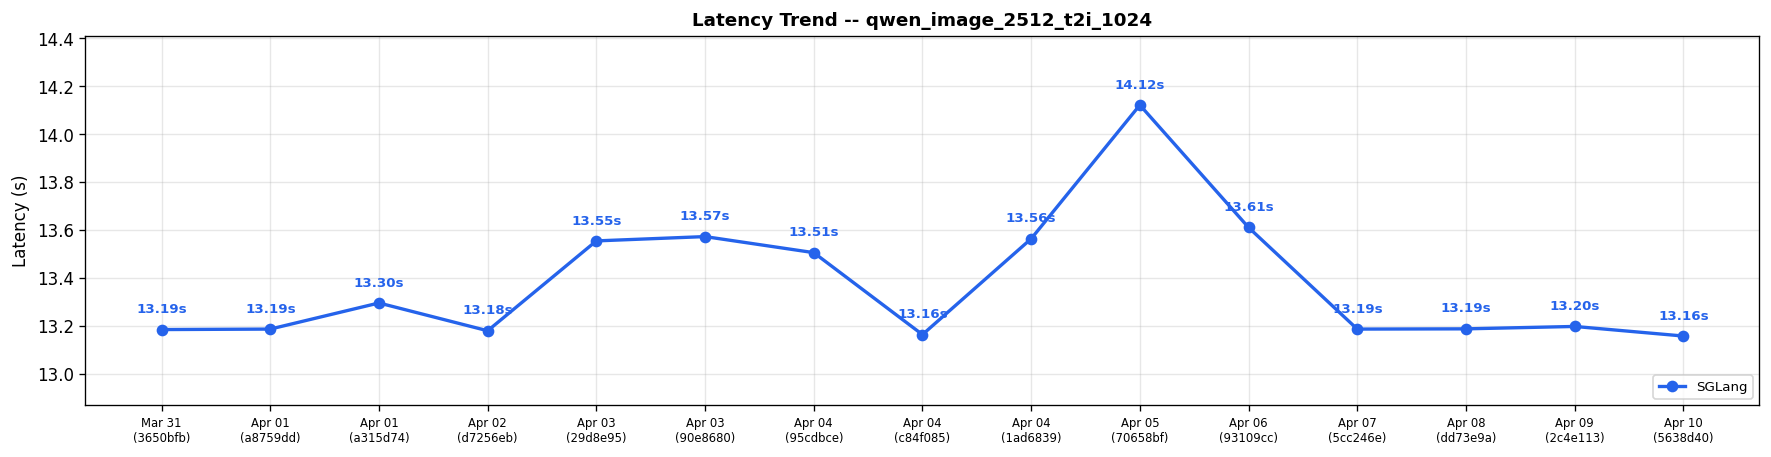
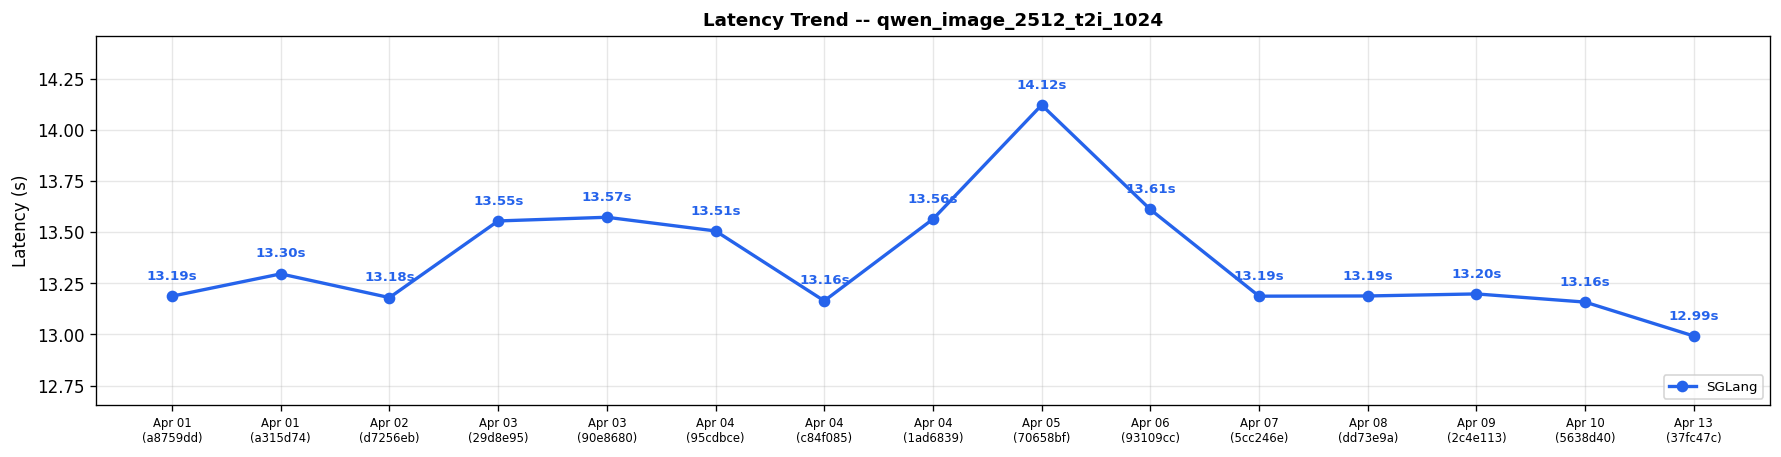
Diffusion comparison results for run 24320635302 (#566)

diff --git a/diffusion-comparisons/dashboard.md b/diffusion-comparisons/dashboard.md
@@ -1,20 +1,20 @@
 # Diffusion Cross-Framework Performance Dashboard
 
-*Generated: Apr 10 | Commit: `5638d40`*
+*Generated: Apr 13 | Commit: `37fc47c`*
 
 ## Cross-Framework Performance Comparison
 
 | Model | Risk | sglang (s) |
 |-------|------|---------|
-| FLUX.1-dev | ✅ | **6.68** |
-| FLUX.2-dev | ✅ | **22.78** |
-| Qwen-Image-2512 | ✅ | **13.16** |
-| Qwen-Image-Edit-2511 | ✅ | **23.76** |
+| FLUX.1-dev | ✅ | **6.60** |
+| FLUX.2-dev | ✅ | **22.61** |
+| Qwen-Image-2512 | ✅ | **12.99** |
+| Qwen-Image-Edit-2511 | ✅ | **23.60** |
 | Z-Image-Turbo | ✅ | **0.88** |
-| Wan2.2-T2V-A14B-Diffusers | ✅ | **209.41** |
-| Wan2.2-TI2V-5B-Diffusers | ✅ | **62.16** |
-| LTX-2 | ✅ | **14.21** |
-| Wan2.2-I2V-A14B-Diffusers | ✅ | **204.58** |
+| Wan2.2-T2V-A14B-Diffusers | ✅ | **209.76** |
+| Wan2.2-TI2V-5B-Diffusers | ✅ | **61.17** |
+| LTX-2 | ✅ | **14.74** |
+| Wan2.2-I2V-A14B-Diffusers | ✅ | **207.63** |
 
 ### Latency Trend: flux1_dev_t2i_1024
 
@@ -65,6 +65,7 @@
 
 | Date | Commit | flux1_dev_t2i_1024 (s) | flux2_dev_t2i_1024 (s) | qwen_image_2512_t2i_1024 (s) | qwen_image_edit_2511 (s) | zimage_turbo_t2i_1024 (s) | wan22_t2v_a14b_720p (s) | wan22_ti2v_5b_720p (s) | ltx2_twostage_t2v (s) | wan22_i2v_a14b_720p (s) | Trend |
 |------|--------|---------|---------|---------|---------|---------|---------|---------|---------|---------|-------|
+| Apr 13 | `37fc47c` | 6.60 | 22.61 | 12.99 | 23.60 | 0.88 | 209.76 | 61.17 | 14.74 | 207.63 | :left_right_arrow:  :left_right_arrow:  :left_right_arrow:  :left_right_arrow:  :left_right_arrow:  :left_right_arrow:  :left_right_arrow:  :arrow_up:  :left_right_arrow: |
 | Apr 10 | `5638d40` | 6.68 | 22.78 | 13.16 | 23.76 | 0.88 | 209.41 | 62.16 | 14.21 | 204.58 | :left_right_arrow:  :left_right_arrow:  :left_right_arrow:  :left_right_arrow:  :left_right_arrow:  :left_right_arrow:  :left_right_arrow:  :arrow_down:  :left_right_arrow: |
 | Apr 09 | `2c4e113` | 6.71 | 22.93 | 13.20 | 23.80 | 0.89 | 210.35 | 62.16 | 14.71 | 206.54 | :left_right_arrow:  :left_right_arrow:  :left_right_arrow:  :left_right_arrow:  :left_right_arrow:  :left_right_arrow:  :left_right_arrow:  :arrow_down:  :left_right_arrow: |
 | Apr 08 | `dd73e9a` | 6.83 | 22.96 | 13.19 | 23.84 | 0.89 | 210.25 | 62.20 | 15.24 | 206.65 | :arrow_up:  :left_right_arrow:  :left_right_arrow:  :left_right_arrow:  :left_right_arrow:  :left_right_arrow:  :left_right_arrow:  :left_right_arrow:  :left_right_arrow: |
@@ -78,8 +79,7 @@
 | Apr 03 | `29d8e95` | 6.69 | 22.88 | 13.55 | 29.62 | 0.93 | 16.57 | 62.18 | N/A | 21.07 | :left_right_arrow:  :left_right_arrow:  :arrow_up:  :left_right_arrow:  :left_right_arrow:  :arrow_up:  :left_right_arrow:   :arrow_down: |
 | Apr 02 | `d7256eb` | 6.70 | 22.87 | 13.18 | 29.59 | 0.93 | 16.11 | 62.20 | N/A | 22.07 | :left_right_arrow:  :left_right_arrow:  :left_right_arrow:  :left_right_arrow:  :left_right_arrow:  :left_right_arrow:  :left_right_arrow:   :left_right_arrow: |
 | Apr 01 | `a315d74` | 6.70 | 22.89 | 13.30 | 29.70 | 0.92 | 16.20 | 62.19 | N/A | 22.08 | :left_right_arrow:  :left_right_arrow:  :left_right_arrow:  :left_right_arrow:  :left_right_arrow:  :left_right_arrow:  :left_right_arrow:   :arrow_up: |
-| Apr 01 | `a8759dd` | 6.70 | 22.88 | 13.19 | 30.10 | 0.93 | 16.16 | 62.20 | N/A | 21.07 | :left_right_arrow:  :left_right_arrow:  :left_right_arrow:  :left_right_arrow:  :left_right_arrow:  :left_right_arrow:  :left_right_arrow:   :arrow_up: |
-| Mar 31 | `3650bfb` | 6.69 | 22.84 | 13.19 | 29.64 | 0.93 | 16.10 | 63.18 | N/A | 9.03 | -- |
+| Apr 01 | `a8759dd` | 6.70 | 22.88 | 13.19 | 30.10 | 0.93 | 16.16 | 62.20 | N/A | 21.07 | -- |
 
 ---
 *Generated by `generate_diffusion_dashboard.py` in SGLang nightly CI.*
